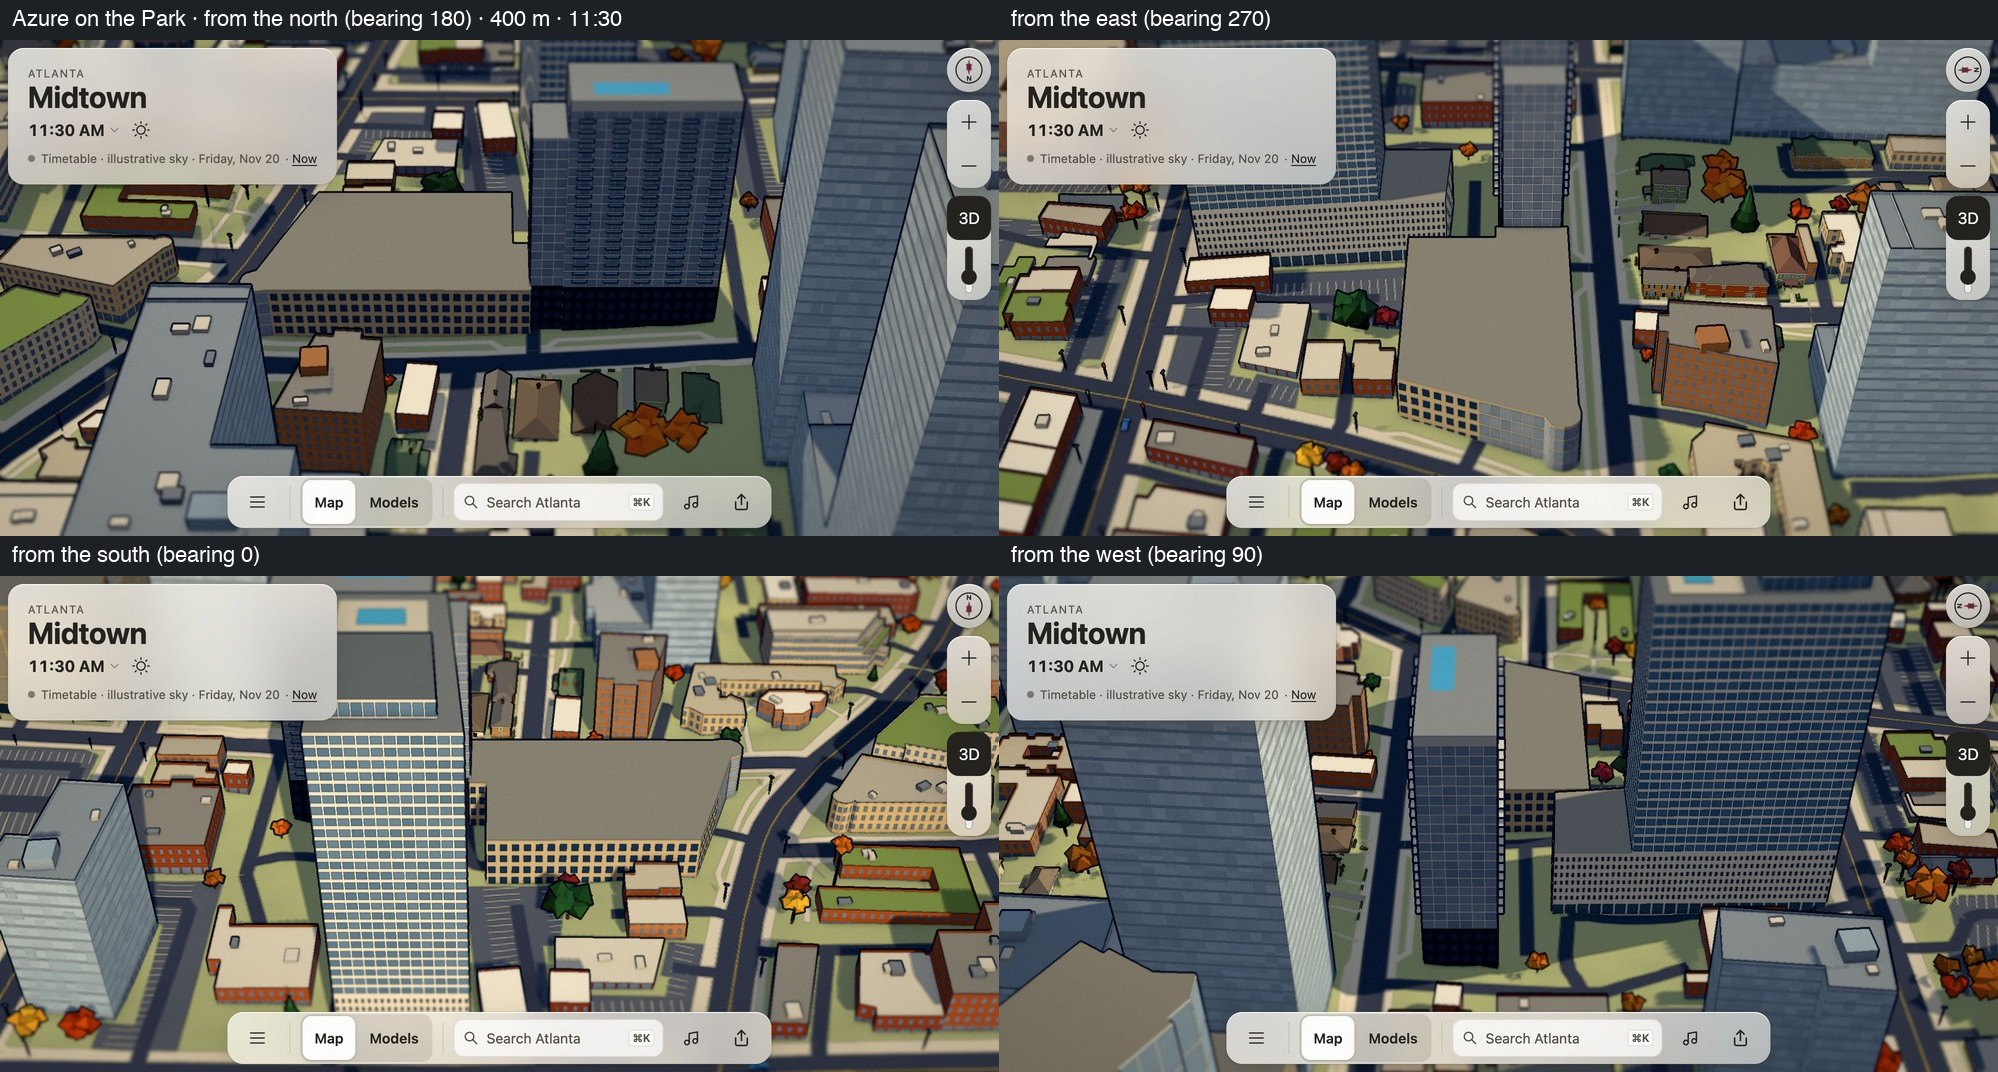
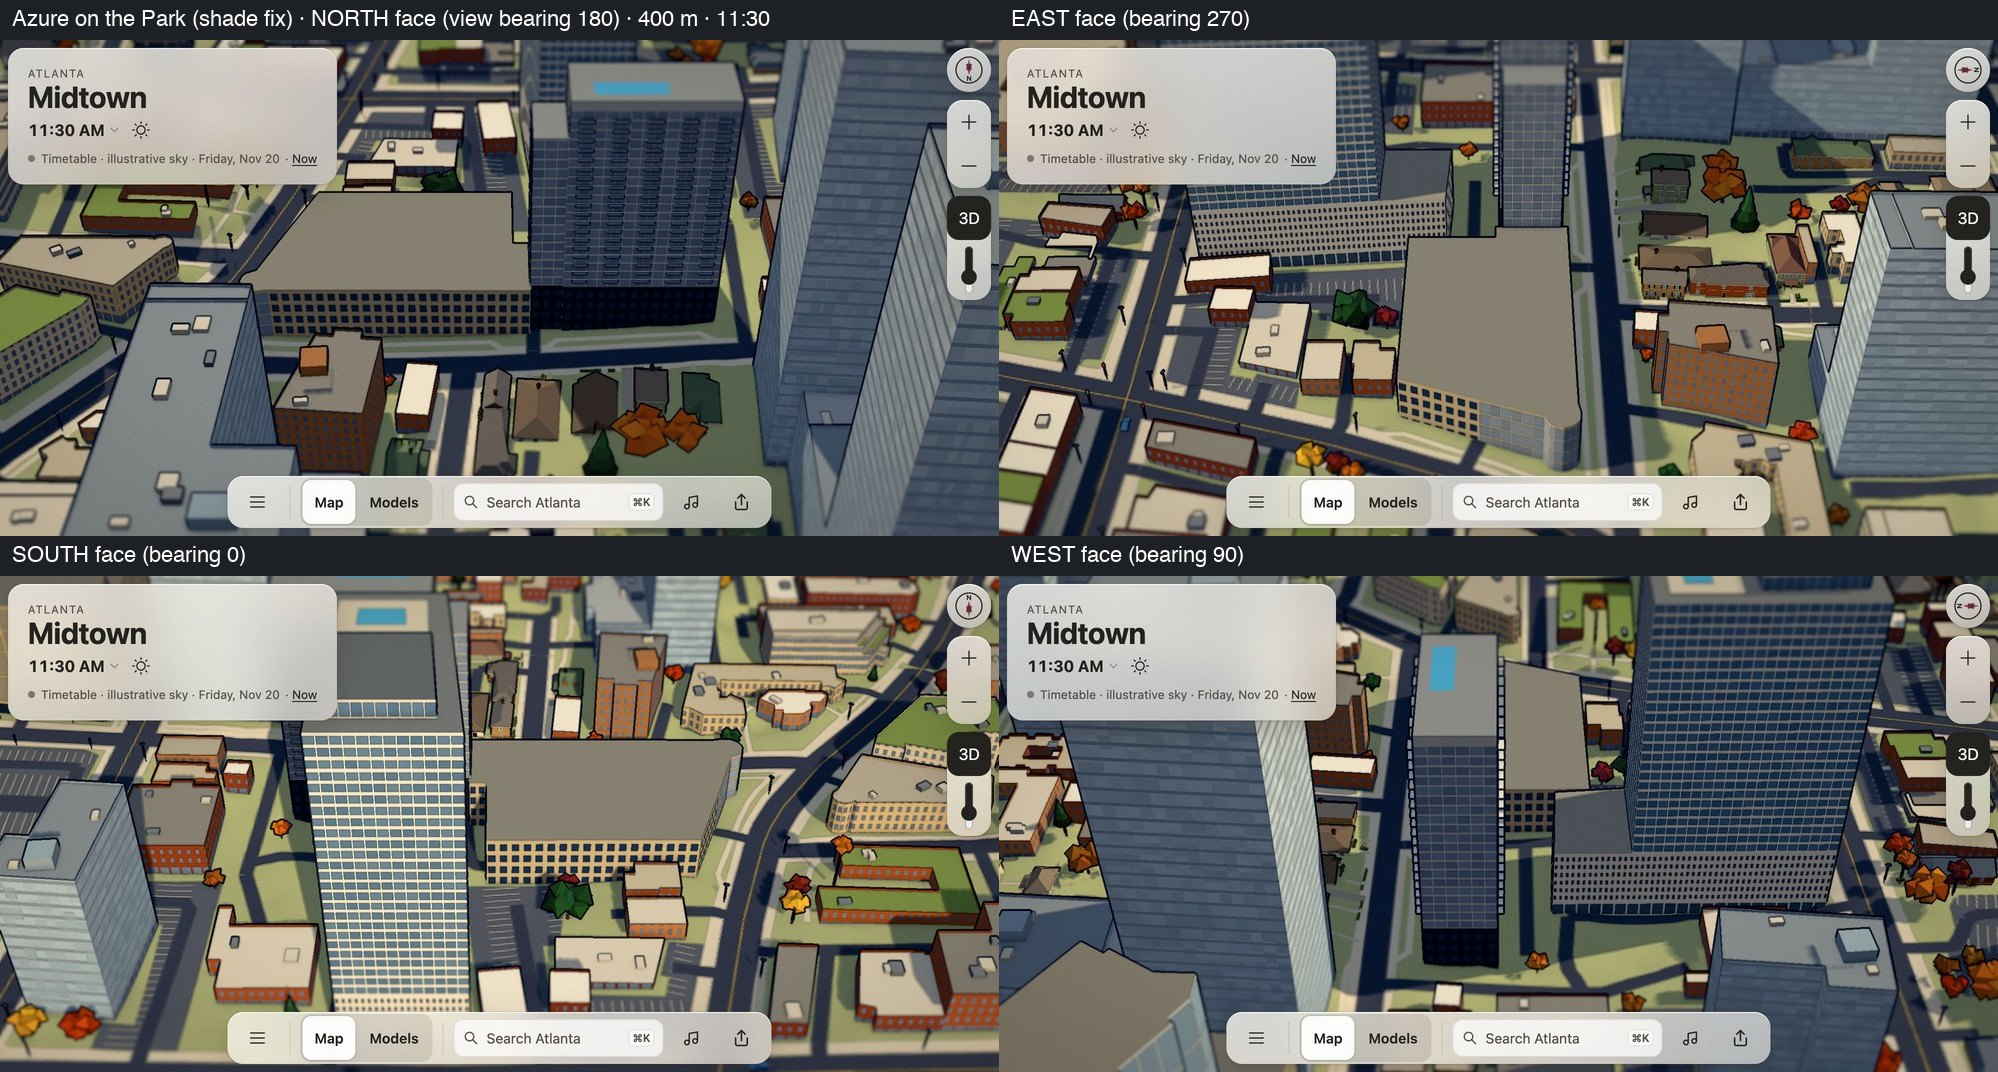
Keep Azure's grid and balconies legible in shade
Brighter balcony soffits and a light slab nosing, plus wider spandrel bands,
so the shaded north and west faces keep their rhythm at 11:30.

diff --git a/web/src/city/azure-on-the-park.ts b/web/src/city/azure-on-the-park.ts
@@ -75,7 +75,7 @@ export function createAzureOnThePark(buildings: VBuilding[], grid: GroundGrid, q
     shell.body.quad(at(0, shell.base, 0.06), at(0, towerLo, 0.06), at(length, towerLo, 0.06), at(length, shell.base, 0.06), brick);
     const rows = Math.round((top - towerLo) / 3.1);
     if (high) {
-      litFacade(shell, seed, block + i, a, b, towerLo, top - 0.3, rows, 3.2, 0.92, 0.86, glass, 0.45);
+      litFacade(shell, seed, block + i, a, b, towerLo, top - 0.3, rows, 3.2, 0.92, 0.78, glass, 0.45);
       litFacade(shell, seed, block + 40 + i, a, b, shell.base + 0.8, towerLo - 0.8, podFloors, 3.2, 0.55, 0.55, ['#3d4d5b'], 0.35);
     } else if (length > 8) {
       litFacade(shell, seed, block + i, a, b, towerLo, top - 0.3, Math.round(rows / 3), 12, 0.9, 0.9, glass, 0.45);
@@ -87,9 +87,11 @@ export function createAzureOnThePark(buildings: VBuilding[], grid: GroundGrid, q
       const c = (k + 0.5) * length / stacks, yy = towerLo + j * pitch;
       const q = (u: number, out: number, h: number) => at(c + u, h, out);
       const w = 2.1, d = 1.7;
-      shell.body.quad(q(-w, 0.02, yy + 0.2), q(w, 0.02, yy + 0.2), q(w, d, yy + 0.2), q(-w, d, yy + 0.2), '#d6d7d6');
-      shell.body.quad(q(-w, 0.02, yy), q(-w, d, yy), q(w, d, yy), q(w, 0.02, yy), '#9b9d9e');
+      shell.body.quad(q(-w, 0.02, yy + 0.2), q(w, 0.02, yy + 0.2), q(w, d, yy + 0.2), q(-w, d, yy + 0.2), '#e4e5e4');
+      shell.body.quad(q(-w, 0.02, yy), q(-w, d, yy), q(w, d, yy), q(w, 0.02, yy), '#c2c4c4');
       shell.body.quad(q(-w, d, yy), q(-w, d, yy + 1.1), q(w, d, yy + 1.1), q(w, d, yy), '#a8b9c7');
+      // A bright slab nosing keeps the balcony rhythm legible on the shaded faces.
+      shell.body.quad(q(-w, d + 0.02, yy - 0.05), q(-w, d + 0.02, yy + 0.25), q(w, d + 0.02, yy + 0.25), q(w, d + 0.02, yy - 0.05), '#f2f3f2');
     }
   });
   tower3(t, y(roof), 0);

diff --git a/docs/log/ui/azure-on-the-park/README.md b/docs/log/ui/azure-on-the-park/README.md
@@ -26,6 +26,10 @@ The mapped 98 m is the OSM tag.
 
 The high tier was thinned (3.2 m bays and 10 m balcony spacing, down from 1.6 m and 7.5 m) because high-tier geometry is close to its ceiling. Same-session `pnpm test:perf` figures are in the PR.
 
+## Shade legibility
+
+At 11:30 the north and west faces are in shade, and the grid and balconies nearly disappeared there (coordinator note on #546). Balcony soffits are now `#c2c4c4` instead of `#9b9d9e`, a bright 0.3 m slab nosing (`#f2f3f2`) runs along each balcony front, and the spandrel bands between floors are wider (glass vertical fill 0.78 instead of 0.86). [Before and after in shade](az-shade.jpg)
+
 ## Night
 
 No night photograph was found. Lit rooms come from the shared `litHash(seedOf(id), face, floor, bay)` at 45%, and the podium shopfronts at 40%. The pool and crown are unlit.
